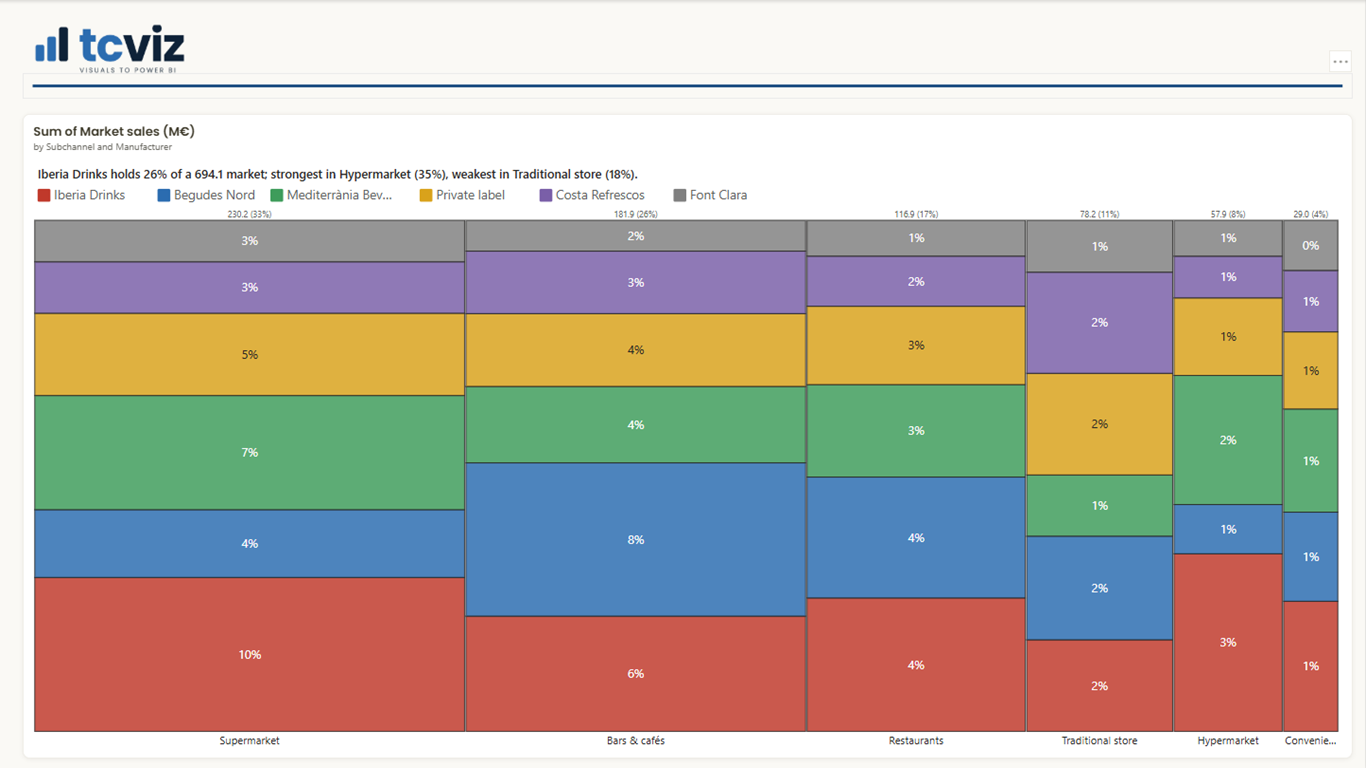
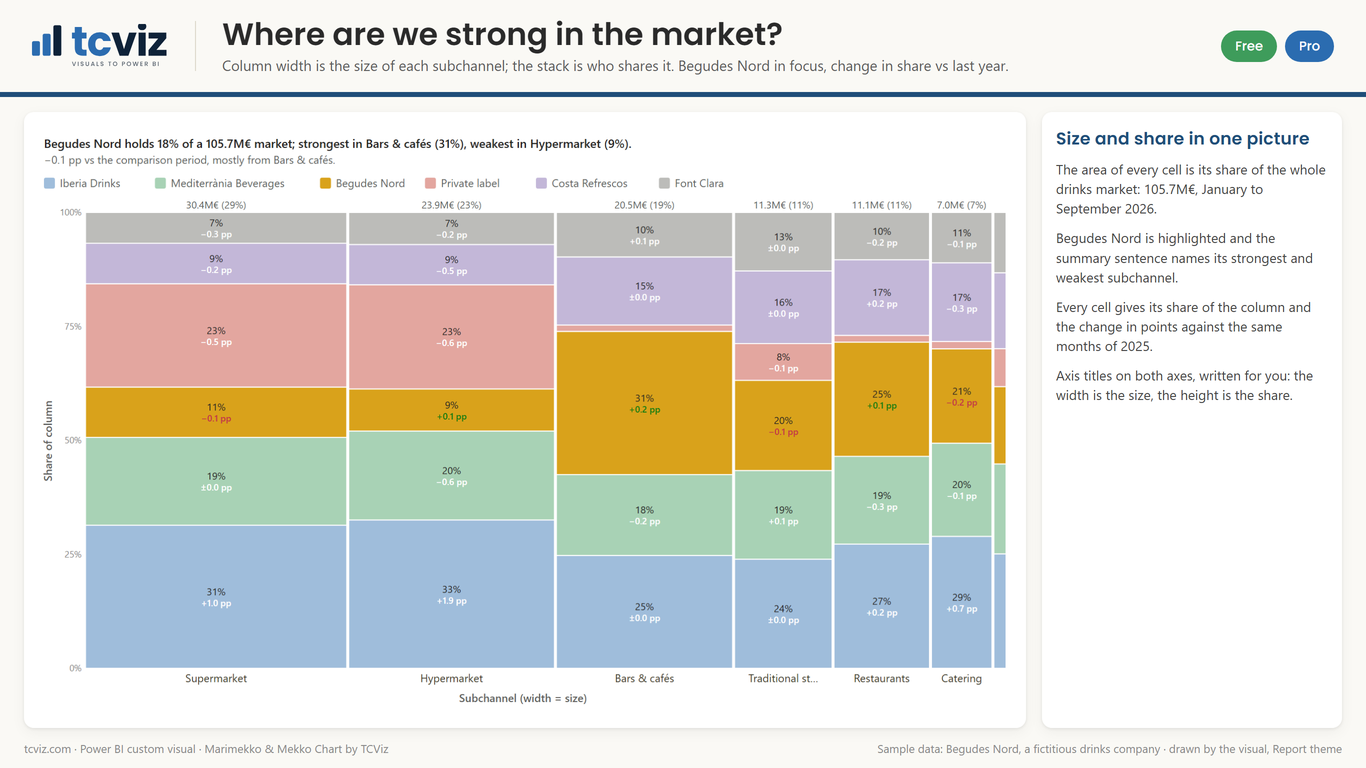
Imágenes de la ficha con los estilos de la colección, Begudes Nord y tres tamaños (D06)
- harness.py ficha: capturas del caso Begudes Nord (datos de la demo, ene-sep 2026 frente a 2025) con el tema TCViz
- infografias_mk.py: infografía común con la imagen del simulador (1.0.1), Free/Pro sin "6 templates",
  Screenshot_1..5: la mejor imagen, small multiples, tres tamaños a la misma escala, seis estilos gratis, novedades 1.0.1
- APPSOURCE-LISTING.md: qué cinco imágenes subir y en qué orden

diff --git a/tools/infografias_mk.py b/tools/infografias_mk.py
@@ -1,19 +1,39 @@
-"""Infografías del Marimekko para Partner Center (assets/, 1366x768) y la web (2x, en datos/demo_rtm/export/infografias).
-1: plantilla común de la web (ficha de docs/WEBSITE-PRODUCT-PAGE.md + export/central_22.png de la demo).
-2: Free frente a Pro con dos renders del simulador (mk_ig_free.png, mk_ig_pro.png, 620x400, sin el marco),
-   en la carpeta indicada como primer argumento (por defecto, la de este script)."""
-import os, re, sys, json, subprocess, html
+# -*- coding: utf-8 -*-
+"""Infografías y capturas de la ficha del Marimekko (1366x768, assets/) con la plantilla común de la web.
+Modelo: Treemap/tools/gen_infographic.py.
+
+El contenido sale de docs/WEBSITE-PRODUCT-PAGE.md (la entrada de data.jsx): se corrige la ficha, no la imagen.
+  infographic.png       plantilla común con la imagen del simulador (ficha_central)
+  infographic-pro.png   Free frente a Pro, el mismo dato (simulador)
+  Screenshot_1..5.png   la mejor imagen, small multiples, tres tamaños, estilos, novedades 1.0.1 (simulador)
+Las imágenes del simulador son del caso Begudes Nord (tools/simulador/begudes_nord.json, datos de la demo) y no llevan
+marca de agua: la build de prueba fuerza Pro. Su pie no dice "Power BI Desktop".
+
+    node build-test.js && python tools/simulador/harness.py ficha && python tools/infografias_mk.py
+Copia 2x para la web en datos/demo_rtm/export/infografias/marimekko-chart-infographic*.png.
+"""
+import html, json, os, re, shutil, subprocess, sys, tempfile
 sys.path.insert(0, r"C:\tcviz\datos\demo_rtm")
 import infografias as I
 from PIL import Image
 
-REPO = r"C:\tcviz\dev\Marimekko"
-MK = sys.argv[1] if len(sys.argv) > 1 else os.path.dirname(os.path.abspath(__file__))
-md = open(os.path.join(REPO, "docs", "WEBSITE-PRODUCT-PAGE.md"), encoding="utf-8").read()
+ROOT = os.path.dirname(os.path.dirname(os.path.abspath(__file__)))
+CAP = os.path.join(ROOT, "tools", "simulador", "capturas")
+ASSETS = os.path.join(ROOT, "assets")
+md = open(os.path.join(ROOT, "docs", "WEBSITE-PRODUCT-PAGE.md"), encoding="utf-8").read()
 js = re.search(r"```js\n(.*?)\n```", md, re.S).group(1).strip().rstrip(",")
 r = subprocess.run(["node", "-e", "process.stdout.write(JSON.stringify(eval('(' + require('fs').readFileSync(0,'utf8') + ')')))"],
                    input=js, capture_output=True, text=True, encoding="utf-8", check=True)
 P = json.loads(r.stdout)
+e = html.escape
+CSS = I.CSS % {"pop": I.uri(os.path.join(I.BASE, "tema", "Poppins"))}
+LOGO = I.uri(os.path.join(I.WEB, "logos", "tcviz-logo-light.svg"))
+
+
+def cap(n):
+    f = os.path.join(CAP, "ficha_" + n + ".png")
+    assert os.path.exists(f), f"falta {f}: python tools/simulador/harness.py ficha"
+    return I.uri(f)
 
 
 def render(h_html, png2x, png1x):
@@ -21,47 +41,135 @@ def render(h_html, png2x, png1x):
                     "--allow-file-access-from-files", f"--screenshot={png2x}", "--window-size=1366,768", I.uri(h_html)],
                    capture_output=True, timeout=90)
     Image.open(png2x).convert("RGB").resize((1366, 768), Image.LANCZOS).save(png1x, optimize=True)
+    print("  ", os.path.relpath(png1x, ROOT))
 
 
-# 1. Plantilla común
-h1 = os.path.join(I.OUT, "marimekko-chart-infographic.html")
-open(h1, "w", encoding="utf-8").write(I.ficha(P, 22, "Where are we strong in the market?"))
-web1 = os.path.join(I.OUT, "marimekko-chart-infographic.png")
-render(h1, web1, os.path.join(REPO, "assets", "infographic.png"))
+def cabecera(titulo, sub, tier='<span class="pill free">Free</span><span class="pill pro">Pro</span>'):
+    return (f'<div class="cab"><img class="logo" src="{LOGO}"><div class="sep"></div>'
+            f'<div><h1>{e(titulo)}</h1><p>{e(sub)}</p></div><div class="tier">{tier}</div></div><div class="raya"></div>')
 
-# 2. Free y Pro con el mismo dato
-e = html.escape
-img_f, img_p = I.uri(os.path.join(MK, "mk_ig_free.png")), I.uri(os.path.join(MK, "mk_ig_pro.png"))
-css = I.CSS % {"pop": I.uri(os.path.join(I.BASE, "tema", "Poppins"))}
-pro_items = "".join(f"<li>{e(x)}</li>" for x in P["freemium"]["pro"])
-free_items = "".join(f"<li>{e(x)}</li>" for x in [
-    "Columns at 100%: width = size of the segment", "3 named series plus Others, every column at its real 100%",
-    "Share labels, column totals with % of the total", "Share axis, legend, ordering, Report theme + 6 styles",
-    "Filtering, bookmarks, keyboard, 12 languages"])
-h2 = os.path.join(I.OUT, "marimekko-chart-infographic-pro.html")
-open(h2, "w", encoding="utf-8").write(f"""<!doctype html><html><head><meta charset="utf-8"><style>{css}
-.dos{{position:absolute;left:24px;right:24px;top:115px;bottom:40px;display:grid;grid-template-columns:1fr 1fr;gap:16px}}
-.dos .card{{padding:14px 16px;display:flex;flex-direction:column}}
-.dos img{{width:100%;border-radius:4px;display:block}}
-.dos h2{{font-size:16px}} .dos .f h2{{color:#3E9C5B}} .dos .p h2{{color:#2B6CB0}}
-.dos ul{{list-style:none;margin-top:10px;columns:2;column-gap:18px}}
-.dos li{{font-size:12.5px;line-height:1.35;padding-left:16px;position:relative;margin-bottom:6px;break-inside:avoid}}
-.dos .f li:before{{content:'✓';color:#3E9C5B;position:absolute;left:0;font-weight:700}}
-.dos .p li:before{{content:'+';color:#2B6CB0;position:absolute;left:0;font-weight:700}}
-.sub{{font-size:12.5px;color:#666;margin:-4px 0 8px}}
-</style></head><body>
-<div class="cab"><img class="logo" src="{I.uri(os.path.join(I.WEB, "logos", "tcviz-logo-light.svg"))}"><div class="sep"></div>
-<div><h1>Free reads the market. Pro reads your position.</h1><p>{e(P["name"])} — the same data, without and with a licence.</p></div>
-<div class="tier"><span class="pill free">Free</span><span class="pill pro">Pro</span></div></div>
-<div class="raya"></div>
+
+PIE = (f'<div class="fin"><span>tcviz.com · Power BI custom visual · {e(P["name"])}</span>'
+       f'<span>Sample data: Begudes Nord, a fictitious drinks company · drawn by the visual, Report theme</span></div>')
+PIE_EST = PIE.replace(", Report theme", "")
+FREE = '<span class="pill free">Free</span>'
+PRO = '<span class="pill pro">Pro</span>'
+
+
+def pagina(nombre, cuerpo, extra_css=""):
+    h = os.path.join(I.OUT, nombre + ".html")
+    open(h, "w", encoding="utf-8").write(f'<!doctype html><html><head><meta charset="utf-8"><style>{CSS}{extra_css}</style></head><body>{cuerpo}</body></html>')
+    return h
+
+
+li = lambda xs: "".join(f"<li>{e(x)}</li>" for x in xs)
+
+# 1. Plantilla común de la web, con la imagen del simulador (1.0.1: títulos de eje, colores de serie distintos) en lugar
+#    de export/central_22.png, que es de la 1.0.0. La imagen no es de Desktop: el pie lo dice.
+tmp = tempfile.mkdtemp()
+try:
+    shutil.copy(os.path.join(CAP, "ficha_central.png"), os.path.join(tmp, "central_99.png"))
+    exp, I.EXP = I.EXP, tmp
+    ficha = I.ficha(P, 99, "Where are we strong in the market?")
+    I.EXP = exp
+    assert "Power BI Desktop, TCViz theme" in ficha
+    h1 = os.path.join(I.OUT, "marimekko-chart-infographic.html")
+    open(h1, "w", encoding="utf-8").write(ficha.replace("Sample report on Begudes Nord, a fictitious drinks company — Power BI Desktop, TCViz theme",
+                                                        "Begudes Nord, a fictitious drinks company — drawn by the visual, Report theme"))
+    render(h1, os.path.join(I.OUT, "marimekko-chart-infographic.png"), os.path.join(ASSETS, "infographic.png"))
+finally:
+    shutil.rmtree(tmp, ignore_errors=True)
+
+# 2. Free frente a Pro con el mismo dato
+DOS = """.dos{position:absolute;left:24px;right:24px;top:115px;bottom:40px;display:grid;grid-template-columns:1fr 1fr;gap:16px}
+.dos .card{padding:14px 16px;display:flex;flex-direction:column}
+.dos img{width:100%;border-radius:4px;display:block}
+.dos h2{font-size:16px} .dos .f h2{color:#3E9C5B} .dos .p h2{color:#2B6CB0}
+.dos ul{list-style:none;margin-top:10px;columns:2;column-gap:18px}
+.dos li{font-size:12.5px;line-height:1.35;padding-left:16px;position:relative;margin-bottom:6px;break-inside:avoid}
+.dos .f li:before{content:'✓';color:#3E9C5B;position:absolute;left:0;font-weight:700}
+.dos .p li:before{content:'+';color:#2B6CB0;position:absolute;left:0;font-weight:700}
+.sub{font-size:12.5px;color:#666;margin:-4px 0 8px}"""
+free_items = ["Columns at 100%: width = size of the segment", "3 named series plus Others, every column at its real 100%",
+              "Share labels, column totals with % of the total", "Axis titles, legend, ordering",
+              "Report theme + 6 collection styles, all free", "Filtering, bookmarks, keyboard, 12 languages"]
+h2 = pagina("marimekko-chart-infographic-pro", cabecera("Free reads the market. Pro reads your position.",
+            f'{P["name"]} — the same data, without and with a licence.') + f"""
 <div class="dos">
-<div class="card f"><h2>Free — a complete Marimekko</h2><div class="sub">Who leads each segment, and how big each segment is.</div>
-<img src="{img_f}"><ul>{free_items}</ul></div>
+<div class="card f"><h2>Free — a complete Marimekko</h2><div class="sub">Who leads each subchannel, and how big each subchannel is.</div>
+<img src="{cap('free')}"><ul>{li(free_items)}</ul></div>
 <div class="card p"><h2>Pro — your company in focus</h2><div class="sub">Begudes Nord highlighted, with its summary sentence and the change in share vs last year.</div>
-<img src="{img_p}"><ul>{pro_items}</ul></div>
+<img src="{cap('pro')}"><ul>{li(P["freemium"]["pro"])}</ul></div>
 </div>
-<div class="fin"><span>tcviz.com · Power BI custom visual · {e(P["name"])}</span><span>Without a licence, Pro features are drawn working under a "Pro preview" watermark while you edit.</span></div>
-</body></html>""")
-web2 = os.path.join(I.OUT, "marimekko-chart-infographic-pro.png")
-render(h2, web2, os.path.join(REPO, "assets", "infographic-pro.png"))
+<div class="fin"><span>tcviz.com · Power BI custom visual · {e(P["name"])}</span><span>Without a licence, Pro features are drawn working under a "Pro preview" watermark while you edit.</span></div>""", DOS)
+render(h2, os.path.join(I.OUT, "marimekko-chart-infographic-pro.png"), os.path.join(ASSETS, "infographic-pro.png"))
+
+# 3. Capturas de la ficha: una idea por imagen
+UNA = """.una{position:absolute;left:24px;right:24px;top:112px;bottom:40px;display:flex;gap:16px}
+.una .card{padding:14px;display:flex;align-items:center;justify-content:center;flex:1;min-width:0}
+.una img{max-width:100%;max-height:100%;display:block}
+.una .lado{flex:0 0 300px;flex-direction:column;align-items:flex-start;justify-content:flex-start}
+.una .lado h2{font-size:17px;margin-bottom:8px} .una .lado p{font-size:13.5px;line-height:1.45;color:#444;margin-bottom:10px}
+.tres{position:absolute;left:24px;right:24px;top:112px;bottom:40px;display:grid;grid-template-columns:1.55fr 1fr;grid-template-rows:1fr 1fr;gap:14px}
+.tres .card{padding:10px;display:flex;flex-direction:column;align-items:flex-start;min-height:0;overflow:hidden}
+.tres .l{grid-row:1 / span 2}
+.tres img{display:block;outline:1px solid #E6E3DA}
+.tres b{font-size:12.5px;margin-bottom:6px;color:#555}
+.est{position:absolute;left:24px;right:24px;top:112px;bottom:40px;display:grid;grid-template-columns:repeat(3,1fr);grid-template-rows:1fr 1fr;gap:12px}
+.est .card{padding:8px;display:flex;flex-direction:column;min-height:0;overflow:hidden}
+.est img{flex:1 1 auto;min-height:0;width:100%;object-fit:contain;display:block;border-radius:3px} .est b{font-size:12.5px;margin-top:5px;color:#555}
+.nov{position:absolute;left:24px;right:24px;top:112px;bottom:40px;display:grid;grid-template-columns:repeat(3,1fr);gap:14px;align-items:start}
+.nov .card{padding:12px 14px;display:flex;flex-direction:column;min-height:0;overflow:hidden}
+.nov img{width:100%;display:block;border-radius:3px;margin-bottom:10px}
+.nov h2{font-size:15px;margin-bottom:6px} .nov p{font-size:12.8px;line-height:1.42;color:#444;margin-bottom:6px}"""
+
+
+def una(n, titulo, sub, img, lado_h, lado_p, tier=None):
+    ps = "".join(f"<p>{e(x)}</p>" for x in lado_p)
+    cab = cabecera(titulo, sub) if tier is None else cabecera(titulo, sub, tier)
+    h = pagina(f"marimekko-shot-{n}", cab + f"""<div class="una"><div class="card"><img src="{cap(img)}"></div>
+<div class="card lado"><h2>{e(lado_h)}</h2>{ps}</div></div>""" + PIE, UNA)
+    render(h, os.path.join(I.OUT, f"marimekko-shot-{n}.png"), os.path.join(ASSETS, f"Screenshot_{n}.png"))
+
+
+una(1, "Where are we strong in the market?", "Column width is the size of each subchannel; the stack is who shares it. Begudes Nord in focus, change in share vs last year.",
+    "hero", "Size and share in one picture",
+    ["The area of every cell is its share of the whole drinks market: 105.7M€, January to September 2026.",
+     "Begudes Nord is highlighted and the summary sentence names its strongest and weakest subchannel.",
+     "Every cell gives its share of the column and the change in points against the same months of 2025.",
+     "Axis titles on both axes, written for you: the width is the size, the height is the share."])
+una(2, "One Mekko per zone", "Small multiples (Pro): the same series and colours in every panel, each panel from 0 to 100%.",
+    "sm", "Where are we strong, zone by zone",
+    ["Begudes Nord leads Bars & cafés in Baix Llobregat and Vallès, but is a small player in the supermarkets of BCN Ciutat.",
+     "Each panel orders its own subchannels by size, so the widest column is the biggest segment of that zone.",
+     "Without a licence, small multiples are drawn working under a Pro preview watermark while you edit."], tier=PRO)
+
+W, H = {"l": (900, 520), "m": (480, 300), "s": (300, 170)}, None
+for k, (w, h) in W.items():
+    got = Image.open(os.path.join(CAP, f"ficha_size_{k}.png")).size
+    assert got == (2 * w, 2 * h), f"ficha_size_{k}.png mide {got}, se esperaba {(2 * w, 2 * h)}"
+sz = lambda k: f'style="width:{W[k][0] * 0.82:.0f}px;height:{W[k][1] * 0.82:.0f}px"'   # misma escala para los tres
+h3 = pagina("marimekko-shot-3", cabecera("Readable at any size", "The same visual and the same settings in a large, medium and small slot, all shown at the same scale.") + f"""
+<div class="tres"><div class="card l"><b>Large · 900 × 520 px</b><img src="{cap('size_l')}" {sz('l')}></div>
+<div class="card"><b>Medium · 480 × 300 px</b><img src="{cap('size_m')}" {sz('m')}></div>
+<div class="card"><b>Small · 300 × 170 px</b><img src="{cap('size_s')}" {sz('s')}></div></div>""" + PIE, UNA)
+render(h3, os.path.join(I.OUT, "marimekko-shot-3.png"), os.path.join(ASSETS, "Screenshot_3.png"))
+
+est = "".join(f'<div class="card"><img src="{cap("style_" + s)}"><b>{s.title()}</b></div>'
+              for s in ("boardroom", "ledger", "editorial", "signal", "aurora", "terrace"))
+h4 = pagina("marimekko-shot-4", cabecera("Six collection styles, all free", "The same looks as the rest of TCViz, so a report reads as one. Report theme follows your report.", FREE) +
+            f'<div class="est">{est}</div>' + PIE_EST, UNA)
+render(h4, os.path.join(I.OUT, "marimekko-shot-4.png"), os.path.join(ASSETS, "Screenshot_4.png"))
+
+h5 = pagina("marimekko-shot-5", cabecera("New in 1.0.1", "Axis titles, patterns to tell series apart without colour, and conditional formatting of every cell — all three in the free version.") + f"""
+<div class="nov">
+<div class="card"><img src="{cap('free')}"><h2>Axis titles on both axes</h2>
+<p>Written for you from your fields — "Subchannel (width = size)" and "Share of column" — or with your own text, size and colour.</p></div>
+<div class="card"><img src="{cap('patterns')}"><h2>Patterns, not only colour</h2>
+<p>Format → Accessibility → Patterns: each series gets its own pattern in the cells and in the legend, for colour-blind readers and grey printouts.</p>
+<p>The same card sets high contrast, keyboard focus colour and width, and a minimum text size.</p></div>
+<div class="card"><img src="{cap('fx')}"><h2>Conditional formatting (fx)</h2>
+<p>Colour every cell by a rule. Here, Begudes Nord is green above 25% of the column, red below 12% and blue in between; the other series in grey, told apart by their patterns.</p></div>
+</div>""" + PIE, UNA)
+render(h5, os.path.join(I.OUT, "marimekko-shot-5.png"), os.path.join(ASSETS, "Screenshot_5.png"))
 print("ok")

diff --git a/tools/simulador/harness.py b/tools/simulador/harness.py
@@ -9,6 +9,8 @@ solo se ven en Desktop. Aquí se simula lo que Power BI documenta (objects[i] po
 
 Uso:  node build-test.js          && python tools/simulador/harness.py pro
       node build-test.js --free   && python tools/simulador/harness.py free
+      node build-test.js          && python tools/simulador/harness.py ficha   (imágenes de la ficha, caso Begudes Nord:
+                                     capturas/ficha_*.png, las usa tools/infografias_mk.py)
 """
 import asyncio, io, json, os, sys
 from playwright.async_api import async_playwright
@@ -28,10 +30,10 @@ STUB = r"""
 window.__ev = []; window.__tips = []; window.__persist = []; window.__notices = [];
 window.powerbi = { visuals: { plugins: {} }, extensibility: {} };
 (function(){
- const PAL = ['#118DFF','#12239E','#E66C37','#6B007B','#E044A7','#744EC2','#D9B300','#D64550','#197278','#1AAB40'];
- let pi = 0; const pmap = {};
+ const PAL0 = ['#118DFF','#12239E','#E66C37','#6B007B','#E044A7','#744EC2','#D9B300','#D64550','#197278','#1AAB40'];
+ let pi = 0; const pmap = {}; let PAL = PAL0;
  function mkId(k){ return { __k:k, getKey(){return k;}, getSelector(){return {data:[{k}]};}, equals(o){return !!o && o.__k===k;}, includes(o){ return !!o && o.__k===k; } }; }
- window.__mkHost = function(opts){ return {
+ window.__mkHost = function(opts){ PAL = opts.pal || PAL0; return {
   eventService: { renderingStarted(){ __ev.push('S'); }, renderingFinished(){ __ev.push('F'); }, renderingFailed(o,m){ __ev.push('X'); console.error('FAILED', m); } },
   createSelectionManager(){ return { select(){ return Promise.resolve([]); }, clear(){ return Promise.resolve(); }, getSelectionIds(){ return []; },
      hasSelection(){ return false; }, registerOnSelectCallback(){}, showContextMenu(){ return Promise.resolve(); } }; },
@@ -43,7 +45,7 @@ window.powerbi = { visuals: { plugins: {} }, extensibility: {} };
   hostCapabilities: { allowInteractions: true }, locale: opts.locale || 'en-US',
   colorPalette: opts.hc ? { isHighContrast:true, foreground:{value:'#FFFFFF'}, background:{value:'#000000'}, foregroundSelected:{value:'#1AEBFF'},
       getColor(k){ return {value:'#FFFFFF'}; } }
-    : { isHighContrast:false, foreground:{value:'#252423'}, background:{value:'#FFFFFF'}, foregroundSelected:{value:'#1AEBFF'},
+    : { isHighContrast:false, foreground:{value: opts.fg || '#252423'}, background:{value:'#FFFFFF'}, foregroundSelected:{value:'#1AEBFF'},
       getColor(k){ if (!(k in pmap)) pmap[k] = PAL[(pi++) % PAL.length]; return {value: pmap[k]}; } },
   licenseManager: opts.license ? {
       getAvailableServicePlans(){ return Promise.resolve({ plans: [], isLicenseInfoAvailable: true, isLicenseUnsupportedEnv: false }); },
@@ -318,12 +320,90 @@ async def run_free(b):
     await pg.close()
 
 
+# ── Imágenes de la ficha (caso Begudes Nord) ─────────────────────────────────────────────────────────────────────────
+# Datos reales de la demo (datos/demo_rtm/csv_en/fact_market.csv): mercado de bebidas por subcanal y fabricante,
+# ene–sep 2026 frente a ene–sep 2025 (105,7 M€ frente a 97,5 M€, lo mismo que la página Market de DemoRTM_EN).
+# "Report theme" con los colores del tema TCViz (datos/demo_rtm/tema/TCViz.json), como en las capturas de la demo.
+TCVIZ_PAL = ['#2B6CB0', '#3E9C5B', '#D9A21B', '#C0392B', '#7A5FA8', '#5B9BD5', '#8BBF6A', '#E3B85A', '#6B6A63', '#A9C4E2', '#B5DABE', '#F0D9A0']
+MFMT = '#,0"€"'
+
+
+# Colores propios: Font Clara en gris (Format → Series), para que no se confunda con Iberia Drinks al atenuar las
+# demás series; Begudes Nord con su color del tema (ámbar) como color de foco.
+BN_COLORS = {"Font Clara": "#6B6A63"}
+
+
+def bn_dataview(objects=None, cmp=False, zones=None, panel=False, colors=BN_COLORS, rule=None):
+    """rule: función (subcanal, fabricante, cuota de la columna) -> color de la regla fx (series.cellColor por fila)."""
+    d = json.load(io.open(os.path.join(os.path.dirname(os.path.abspath(__file__)), "begudes_nord.json"), encoding="utf-8"))
+    agg = {}
+    for zone, ch, sub, man, v26, v25 in d["rows"]:
+        if zones and zone not in zones: continue
+        k = (zone if panel else "", sub, man)
+        a = agg.setdefault(k, [0, 0]); a[0] += v26; a[1] += v25
+    keys = sorted(agg, key=lambda k: ((zones.index(k[0]) if panel else 0), k[1], k[2]))
+    cat = {"source": src("Subchannel", "Market.Subchannel", "category"), "values": [k[1] for k in keys]}
+    ser = {"source": src("Manufacturer", "Market.Manufacturer", "series"), "values": [k[2] for k in keys]}
+    if colors: ser["objects"] = [{"series": {"fill": {"solid": {"color": colors[k[2]]}}}} if k[2] in colors else {} for k in keys]
+    cats = [cat, ser]
+    if panel: cats.append({"source": src("Zone", "Market.Zone", "panel"), "values": [k[0] for k in keys]})
+    values = [{"source": src("Market sales", "Sum(Market.Market sales)", "value", MFMT, True), "values": [agg[k][0] for k in keys]}]
+    if rule:
+        tot = {}
+        for k in keys: tot[(k[0], k[1])] = tot.get((k[0], k[1]), 0) + agg[k][0]
+        values[0]["objects"] = [{"series": {"cellColor": {"solid": {"color": rule(k[1], k[2], agg[k][0] / tot[(k[0], k[1])])}}}} for k in keys]
+    if cmp: values.append({"source": src("Market sales PY", "Sum(Market.Market sales PY)", "comparison", MFMT, True), "values": [agg[k][1] for k in keys]})
+    return {"metadata": {"columns": [c["source"] for c in cats] + [v["source"] for v in values], "objects": objects or {}},
+            "categorical": {"categories": cats, "values": values}}
+
+
+async def run_ficha(b):
+    THEME = {"pal": TCVIZ_PAL, "fg": "#3D3929"}
+    FOCUS = {"focus": {"name": "Begudes Nord", "color": {"solid": {"color": "#D9A21B"}}}}
+
+    async def shot(name, W, H, objs, cmp=False, zones=None, panel=False, opts=THEME, bg="#FFFFFF", rule=None):
+        pg, errs = await page(b, W, H, opts, bg)
+        await update(pg, bn_dataview(objects=dict(objs, style=dict({"guide": False}, **objs.get("style", {}))), cmp=cmp, zones=zones, panel=panel, rule=rule), W, H)
+        await pg.screenshot(path=os.path.join(OUT, f"ficha_{name}.png"))
+        tt = await pg.evaluate("() => Array.from(document.querySelectorAll('svg text')).map(t => t.getBoundingClientRect().toJSON())")
+        out = [r for r in tt if r["width"] > 0 and (r["left"] < -0.5 or r["top"] < -0.5 or r["right"] > W + 0.5 or r["bottom"] > H + 0.5)]
+        wm = await pg.evaluate("() => { const e = document.querySelector('.tcviz-wm'); return e ? getComputedStyle(e).display : 'none'; }")
+        ev = await pg.evaluate("() => __ev.join('')")
+        check(f"ficha {name} ({W}x{H}): sin textos fuera, sin marca de agua, render 1:1", not out and wm == "none" and ev == "SF" and not errs,
+              f"fuera={len(out)} wm={wm} ev={ev} {errs[:1]}")
+        await pg.close()
+
+    # Free (3 series con nombre + Others, sin nada de Pro) y Pro (seis series, Begudes Nord y cambio de cuota), mismo dato
+    await shot("free", 620, 400, {"series": {"named": 3}})
+    await shot("pro", 620, 400, FOCUS, cmp=True)
+    # La mejor imagen: Pro completo con títulos de eje (1.0.1)
+    await shot("hero", 980, 580, FOCUS, cmp=True)
+    # La misma, al tamaño del hueco de la plantilla común de la infografía (texto legible a 1366x768)
+    await shot("central", 820, 320, FOCUS, cmp=True)
+    # Función Pro: small multiples por zona, a la misma escala
+    await shot("sm", 980, 580, dict(FOCUS, smallMultiples={"columns": 2}), zones=["BCN Ciutat", "Girona", "Baix Llobregat", "Vallès"], panel=True)
+    # Tres tamaños (D06): el mismo visual, misma configuración. Con la de la versión gratuita: con foco y frase, a
+    # 300x170 la frase y la leyenda de seis series dejan el gráfico en una franja (no se ocultan al encoger).
+    for nm, (w, h) in (("l", (900, 520)), ("m", (480, 300)), ("s", (300, 170))):
+        await shot("size_" + nm, w, h, {"series": {"named": 3}})
+    # Estilos de la colección (todos gratis): con lo que dibuja la versión gratuita
+    for st in ("boardroom", "ledger", "editorial", "signal", "aurora", "terrace"):
+        await shot("style_" + st, 900, 520, {"style": {"template": st}, "series": {"named": 3}})
+    # Novedades 1.0.1: tramas para distinguir series sin color, y color de celda con regla fx + tramas
+    await shot("patterns", 620, 400, {"accessibility": {"dataPatterns": True}})
+    # Color de celda con una regla fx (Begudes Nord: verde si tiene más del 25 % de la columna, rojo si menos del 12 %)
+    # y las tramas que siguen diciendo de quién es cada celda
+    bn_rule = lambda sub, man, sh: ("#3E9C5B" if sh > 0.25 else "#C0392B" if sh < 0.12 else "#2B6CB0") if man == "Begudes Nord" else "#D9D6CC"
+    await shot("fx", 620, 400, {"accessibility": {"dataPatterns": True}}, rule=bn_rule)
+
+
 async def main():
     os.makedirs(OUT, exist_ok=True)
     print("bundle:", GUID, "· modo", MODE)
     async with async_playwright() as p:
         b = await p.chromium.launch()
         if MODE == "free": await run_free(b)
+        elif MODE == "ficha": await run_ficha(b)
         else: await run_pro(b)
         await b.close()
     bad = [r for r in results if not r[1]]

diff --git a/docs/APPSOURCE-LISTING.md b/docs/APPSOURCE-LISTING.md
@@ -114,3 +114,19 @@ Support: support@tcviz.com
 | Terms (EULA) | https://tinocallarisa-web.github.io/marimekko-chart/terms.html |
 | Logo | `assets/logo_300x300.png` |
 | Screenshots | `assets/` (1366x768) |
+
+## Screenshots (Partner Center accepts 5, 1366x768) — upload in this order
+
+Regenerate with `node build-test.js && python tools/simulador/harness.py ficha && python tools/infografias_mk.py`.
+Images from the simulator, Begudes Nord data (Jan–Sep 2026 vs 2025); none shows the old templates.
+
+| # | File | What it shows |
+|---|---|---|
+| 1 | `assets/Screenshot_1.png` | The best image: Begudes Nord in focus, summary sentence, change in share on every cell, axis titles |
+| 2 | `assets/infographic.png` | Common TCViz infographic: fields, getting started, Free and Pro |
+| 3 | `assets/infographic-pro.png` | Free and Pro side by side, same data |
+| 4 | `assets/Screenshot_2.png` | One Pro feature: small multiples, one Mekko per zone |
+| 5 | `assets/Screenshot_3.png` | Readable at any size: large, medium and small at the same scale (OKviz D06) |
+
+Not uploaded (for the web or to swap in): `assets/Screenshot_4.png` (the six collection styles, all free) and
+`assets/Screenshot_5.png` (new in 1.0.1: axis titles, patterns, conditional formatting of the cell colour).
